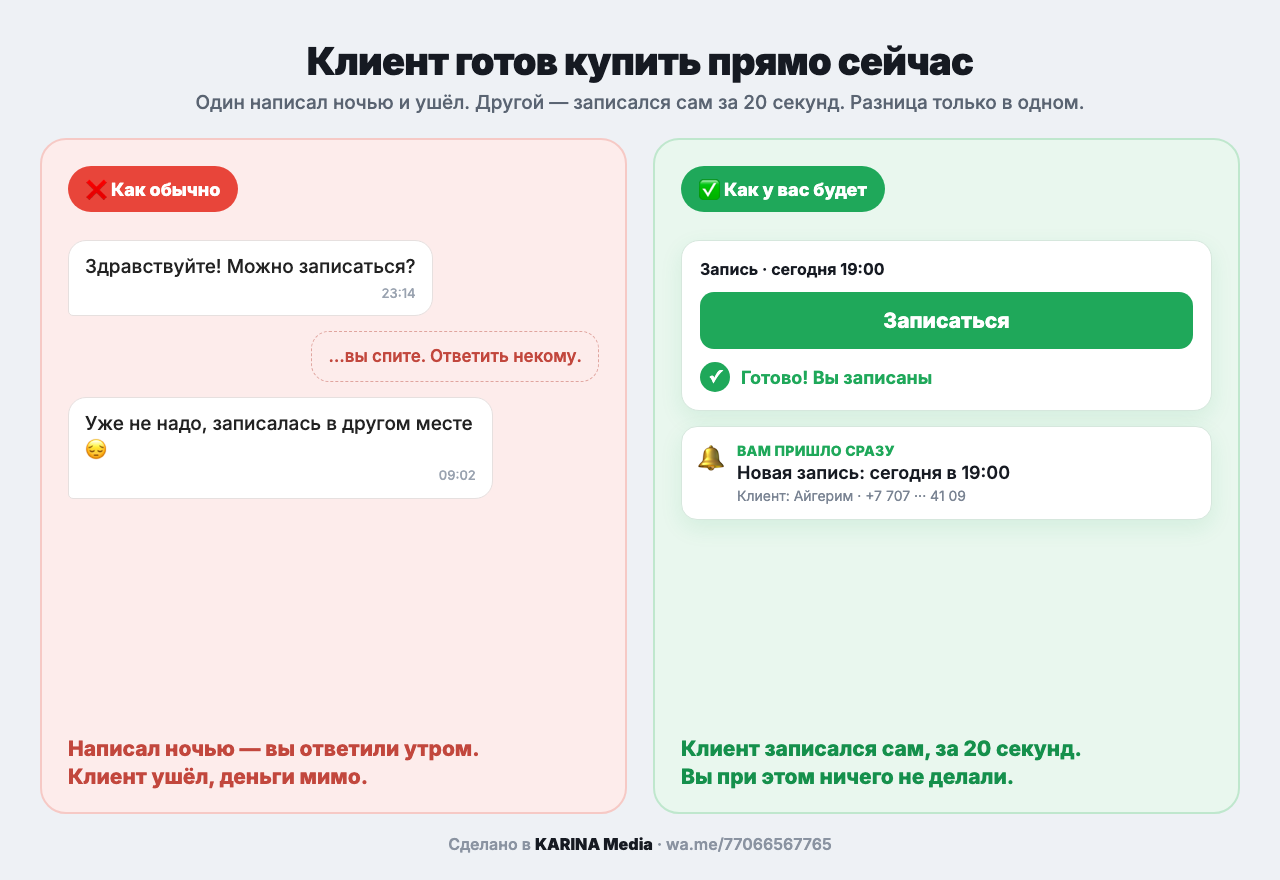
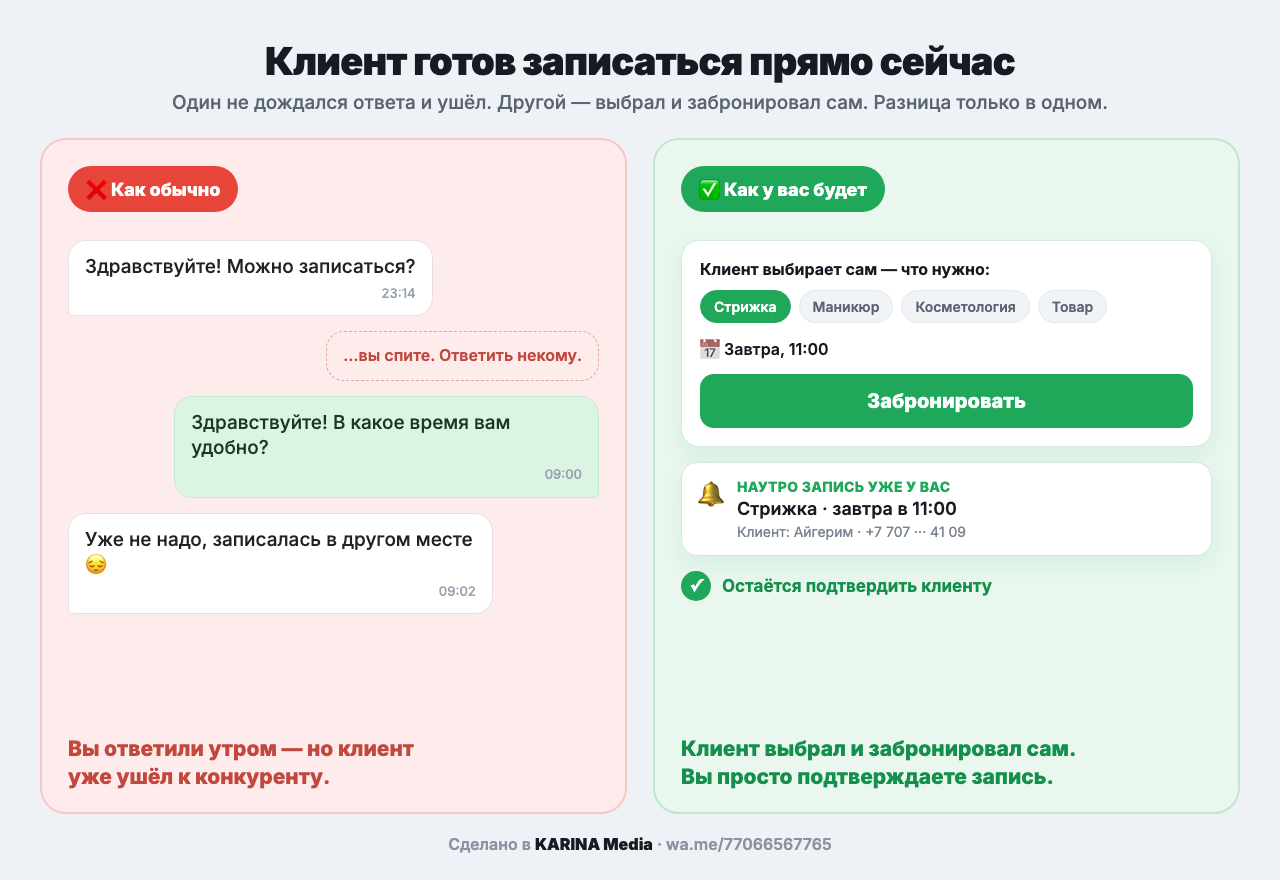
[agent] update: было-стало — добавлен утренний ответ + путь клиента (выбор/бронь/подтверждение)

diff --git a/sales-kit/было-стало.html b/sales-kit/было-стало.html
@@ -26,20 +26,25 @@ body{font-family:'Inter',-apple-system,sans-serif;background:#eef1f5;
 .bub{max-width:80%;padding:13px 16px;border-radius:18px;font-size:19px;font-weight:500;line-height:1.35;position:relative}
 .bub .tm{display:block;font-size:13px;color:#9aa3b0;font-weight:500;margin-top:5px;text-align:right}
 .bub.in{align-self:flex-start;background:#fff;border:1px solid #e6e0df;color:#222;border-bottom-left-radius:5px}
-.bub.silence{align-self:flex-end;background:transparent;border:1px dashed #e0a59f;color:#c2473d;font-weight:600;font-size:17px;text-align:center;max-width:88%}
+.bub.out{align-self:flex-end;background:#dcf5e3;border:1px solid #c4ebd0;color:#173a26;border-bottom-right-radius:5px}
+.bub.silence{align-self:flex-end;background:transparent;border:1px dashed #e0a59f;color:#c2473d;font-weight:600;font-size:16px;text-align:center;max-width:88%}
 
 /* good side phone */
 .phone{flex:1;display:flex;flex-direction:column;justify-content:flex-start;gap:15px;padding-top:8px}
 .scr{background:#fff;border:1px solid #d6e7dd;border-radius:18px;padding:18px 18px;box-shadow:0 8px 22px rgba(31,168,90,.10)}
-.scr .ttl{font-size:16px;font-weight:700;color:#161a22;margin-bottom:13px}
-.bigbtn{background:#1fa85a;color:#fff;font-size:21px;font-weight:800;text-align:center;padding:16px;border-radius:14px}
-.okrow{display:flex;align-items:center;gap:11px;margin-top:13px;font-size:18px;font-weight:700;color:#1fa85a}
-.okrow .ck{width:30px;height:30px;border-radius:50%;background:#1fa85a;color:#fff;display:flex;align-items:center;justify-content:center;font-size:17px}
+.scr .ttl{font-size:16px;font-weight:700;color:#161a22;margin-bottom:11px}
+.chips{display:flex;flex-wrap:wrap;gap:8px;margin-bottom:12px}
+.chip{font-size:14px;font-weight:600;padding:7px 13px;border-radius:30px;background:#f1f4f7;color:#5a6472;border:1px solid #e3e8ee}
+.chip.on{background:#1fa85a;color:#fff;border-color:#1fa85a}
+.daterow{display:flex;align-items:center;gap:9px;font-size:16px;font-weight:600;color:#161a22;margin-bottom:13px}
+.bigbtn{background:#1fa85a;color:#fff;font-size:20px;font-weight:800;text-align:center;padding:15px;border-radius:14px}
 .notif{display:flex;gap:13px;align-items:flex-start;background:#fff;border:1px solid #d6e7dd;border-radius:16px;padding:15px 16px;box-shadow:0 8px 22px rgba(31,168,90,.10)}
 .notif .bell{font-size:26px}
 .notif .nt{font-size:14px;font-weight:800;color:#1fa85a;letter-spacing:.02em;text-transform:uppercase}
 .notif .nd{font-size:18px;font-weight:600;color:#161a22;margin-top:3px}
 .notif .ns{font-size:14px;color:#7a8493;margin-top:4px}
+.confirmrow{display:flex;align-items:center;gap:11px;font-size:17px;font-weight:700;color:#15904c}
+.confirmrow .ck{width:30px;height:30px;border-radius:50%;background:#1fa85a;color:#fff;display:flex;align-items:center;justify-content:center;font-size:17px;flex-shrink:0}
 
 .concl{margin-top:18px;font-size:21px;font-weight:800;line-height:1.3}
 .concl.bad{color:#c2473d}
@@ -51,8 +56,8 @@ body{font-family:'Inter',-apple-system,sans-serif;background:#eef1f5;
 </head>
 <body>
   <div class="top">
-    <h1>Клиент готов купить прямо сейчас</h1>
-    <p>Один написал ночью и ушёл. Другой — записался сам за 20 секунд. Разница только в одном.</p>
+    <h1>Клиент готов записаться прямо сейчас</h1>
+    <p>Один не дождался ответа и ушёл. Другой — выбрал и забронировал сам. Разница только в одном.</p>
   </div>
 
   <div class="cols">
@@ -62,9 +67,10 @@ body{font-family:'Inter',-apple-system,sans-serif;background:#eef1f5;
       <div class="chat">
         <div class="bub in">Здравствуйте! Можно записаться?<span class="tm">23:14</span></div>
         <div class="bub silence">…вы спите. Ответить некому.</div>
+        <div class="bub out">Здравствуйте! В какое время вам удобно?<span class="tm">09:00</span></div>
         <div class="bub in">Уже не надо, записалась в другом месте 😔<span class="tm">09:02</span></div>
       </div>
-      <div class="concl bad">Написал ночью — вы ответили утром.<br>Клиент ушёл, деньги мимо.</div>
+      <div class="concl bad">Вы ответили утром — но клиент<br>уже ушёл к конкуренту.</div>
     </div>
 
     <!-- СТАЛО -->
@@ -72,20 +78,25 @@ body{font-family:'Inter',-apple-system,sans-serif;background:#eef1f5;
       <span class="badge good">✅ Как у вас будет</span>
       <div class="phone">
         <div class="scr">
-          <div class="ttl">Запись · сегодня 19:00</div>
-          <div class="bigbtn">Записаться</div>
-          <div class="okrow"><span class="ck">✓</span> Готово! Вы записаны</div>
+          <div class="ttl">Клиент выбирает сам — что нужно:</div>
+          <div class="chips">
+            <span class="chip on">Стрижка</span><span class="chip">Маникюр</span>
+            <span class="chip">Косметология</span><span class="chip">Товар</span>
+          </div>
+          <div class="daterow">📅 Завтра, 11:00</div>
+          <div class="bigbtn">Забронировать</div>
         </div>
         <div class="notif">
           <span class="bell">🔔</span>
           <div>
-            <div class="nt">Вам пришло сразу</div>
-            <div class="nd">Новая запись: сегодня в 19:00</div>
+            <div class="nt">Наутро запись уже у вас</div>
+            <div class="nd">Стрижка · завтра в 11:00</div>
             <div class="ns">Клиент: Айгерим · +7 707 ··· 41 09</div>
           </div>
         </div>
+        <div class="confirmrow"><span class="ck">✓</span> Остаётся подтвердить клиенту</div>
       </div>
-      <div class="concl good">Клиент записался сам, за 20 секунд.<br>Вы при этом ничего не делали.</div>
+      <div class="concl good">Клиент выбрал и забронировал сам.<br>Вы просто подтверждаете запись.</div>
     </div>
   </div>
 
